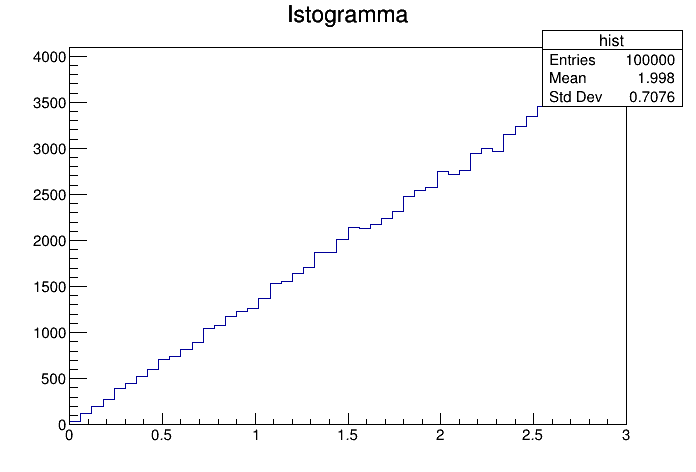
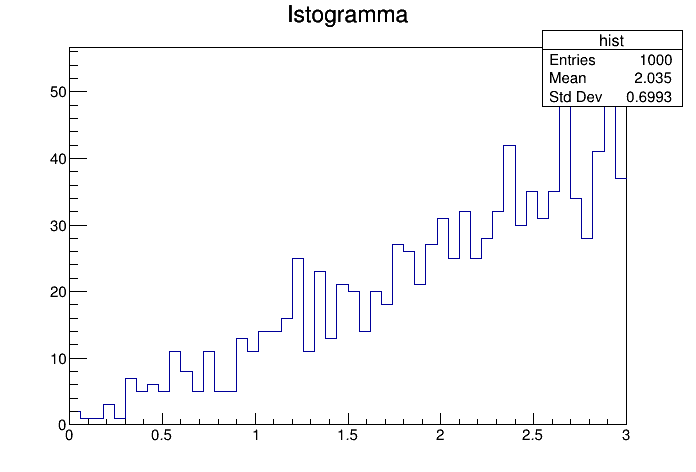
Exam task 4 done

diff --git a/esame_17012022/lib.cc b/esame_17012022/lib.cc
@@ -1,4 +1,8 @@
 #include <cstdlib>
+#include <cmath>
+#include <vector>
+
+using namespace std;
 
 static double triangle_pdf (double x);
 static double rand_range(double min , double max);
@@ -14,6 +18,23 @@ double triangle_tac (double x_min , double x_max) {
         
     return x;
 }
+
+double mean (vector<double> & sample) {
+    double mean {0.};
+    for (vector<double>::iterator it = sample.begin() ; it != sample.end() ; ++it) {
+        mean += *it;
+    }
+    return mean / static_cast<double> (sample.size());
+}
+
+double std_dev_bessel (vector<double> & sample , double mean) {
+    double std_dev {0.};
+    for (vector<double>::iterator it = sample.begin() ; it != sample.end() ; ++it) {
+        std_dev += (*it - mean) * (*it - mean);
+    }
+    return sqrt (std_dev / static_cast<double> (sample.size() - 1));
+}
+
 
 static double rand_range(double min , double max) {  
     return min + (rand() / static_cast<double> (RAND_MAX)) * (max - min);

diff --git a/esame_17012022/main.cpp b/esame_17012022/main.cpp
@@ -1,4 +1,5 @@
 //c++ -o main main.cpp lib.cc `root-config --glibs --cflags`
+#include <iostream>
 #include <vector>
 #include <cmath>
 
@@ -10,7 +11,7 @@
 using namespace std;
 
 int main () {
-    int n_events = 100000;
+    int n_events = 1000;
     vector<double> points;
 
     for(int i = 0 ; i < n_events ; ++i) {
@@ -22,6 +23,9 @@ int main () {
     for (vector<double>::iterator it = points.begin() ; it != points.end() ; ++it) {
         hist.Fill(*it);
     }
+
+    cout << "\tmedia del campione:" << mean (points) << endl;
+    cout << "\tdeviazione standard del campione:" << std_dev_bessel (points , mean (points)) << endl;
 
     TCanvas c1;
     hist.Draw();

diff --git a/esame_17012022/lib.h b/esame_17012022/lib.h
@@ -1,1 +1,7 @@
+#include <vector>
+
+using namespace std;
+
 double triangle_tac (double x_min , double x_max);
+double mean (vector<double> & sample);
+double std_dev_bessel (vector<double> & sample , double mean);
